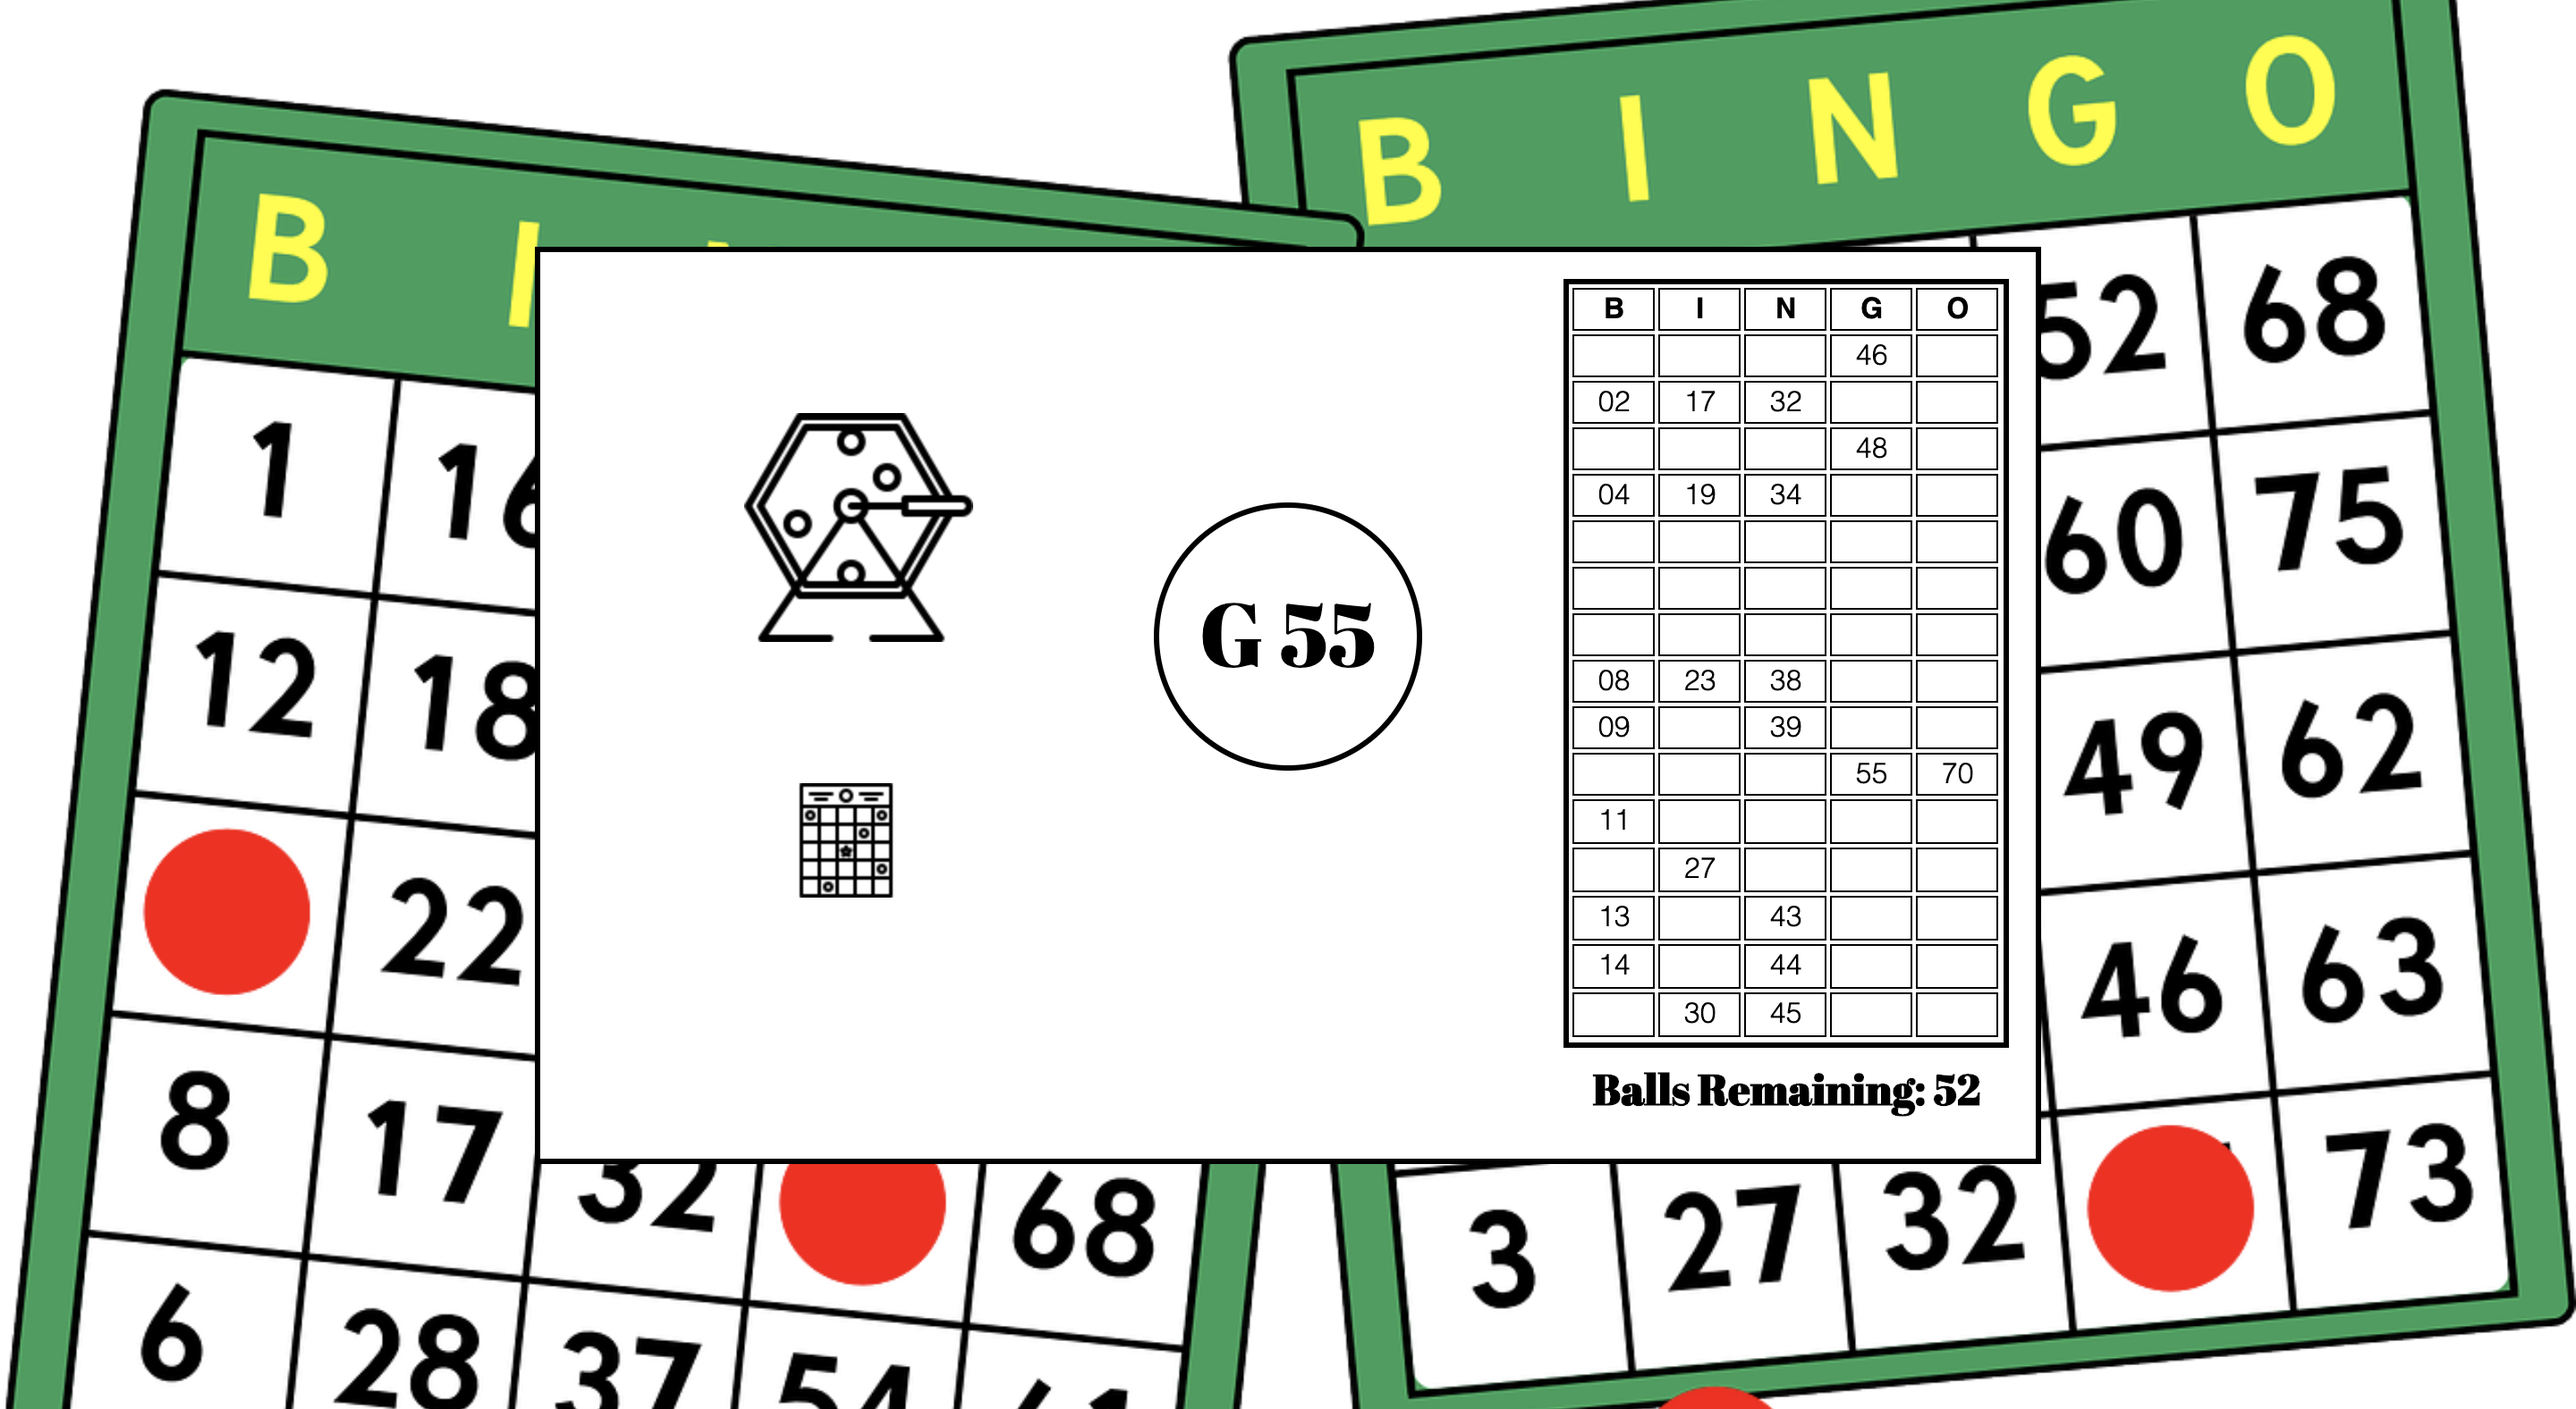
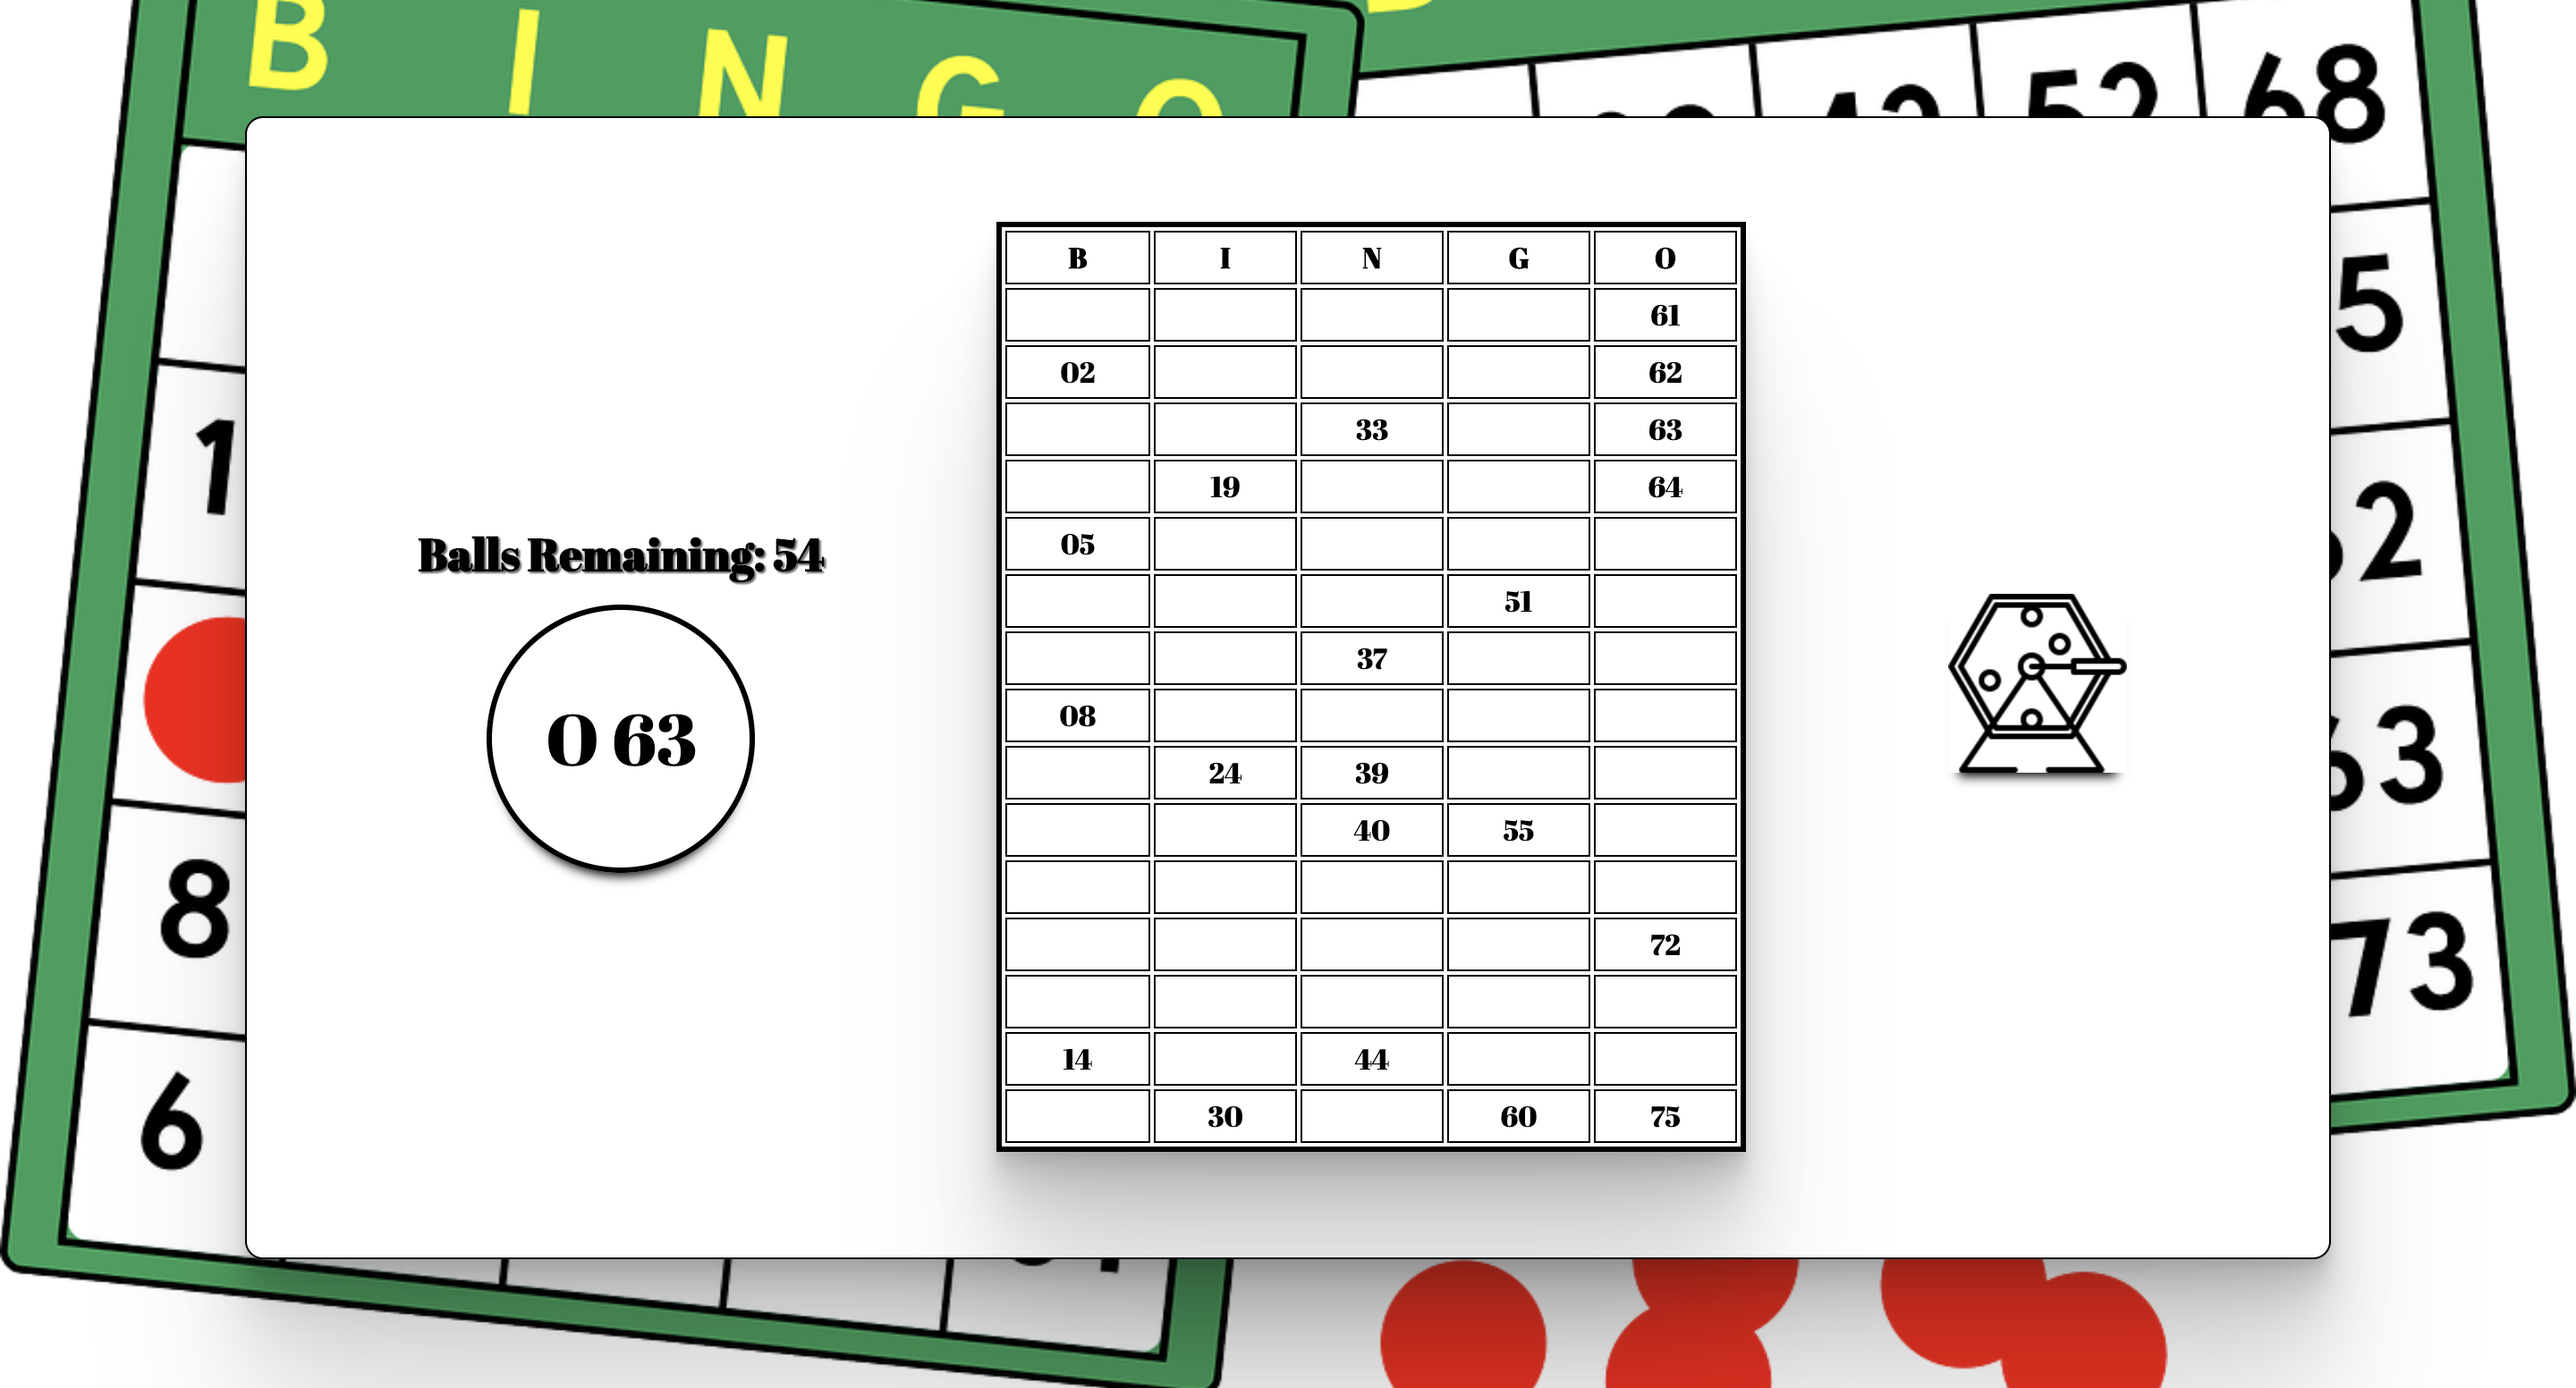
updated ReadMe

diff --git a/README.md b/README.md
@@ -18,8 +18,9 @@ It utilizes vanilla Javascript, Google Fonts, and Image from Pixabay , and icons
 
 - Experience the deployed app: [Here](https://jsmithxyz.github.io/bingo/ "Here")
 - Upon entering the app, the user will be served a blank bingo grid that will display all possible bingo choices, from B1-O75 when chosen from the ball cage.
-- To begin a game, simply click on the Ball Cage icon. If you want to clear the grid, or start a new game, click the bingo card.
-- Underneath the bingo grid, Balls Remaining in that particular session will be displayed.
+- To begin a game, simply click on the Ball Cage icon.
+- Above the current ball, Balls Remaining in that particular session will be displayed.
+- The application is mobile friendly, and can be used on all devices.
 
 ## Demonstrations
 
@@ -35,7 +36,6 @@ It utilizes vanilla Javascript, Google Fonts, and Image from Pixabay , and icons
 
 ## Future Development
 
-- Make it mobile-friendly
 - Add an interactive Bingo Card so you can play the whole game on your desktop
 
 ## Contributers
